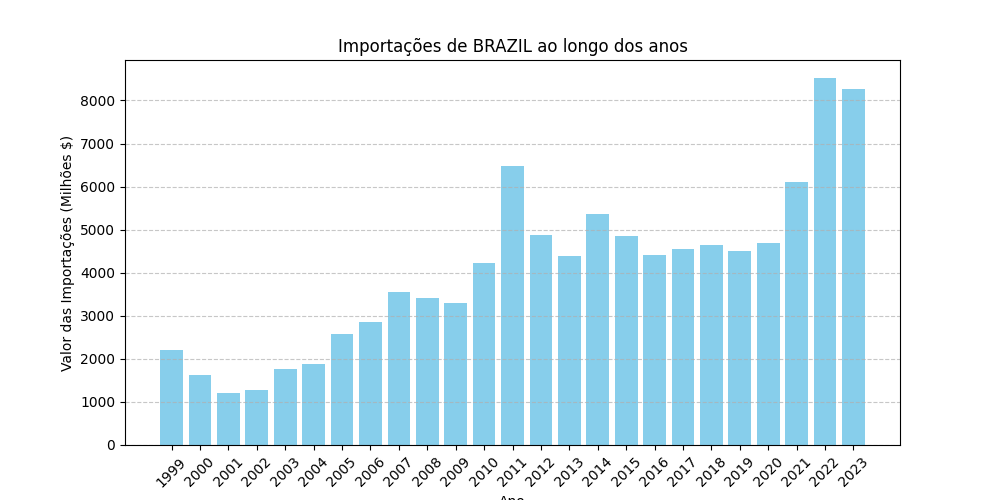
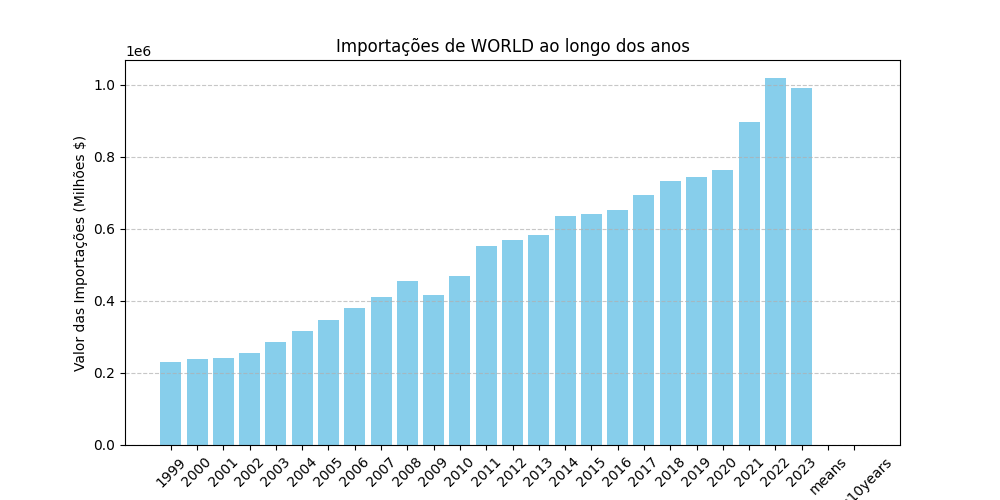
20-03

diff --git a/test2.py b/test2.py
@@ -35,4 +35,16 @@ def plot_imports_by_year(pais):
     plt.show()
 
 # Exemplo de uso da função
-plot_imports_by_year("BRAZIL")
+#plot_imports_by_year("WORLD")
+
+def CPY(com):
+    aux = df[(df["Commodity"] == com) &(df["Country"] == "BRAZIL") ] 
+    print(aux)
+#(df["Unit of Measure"] == "percent")
+
+def Wine(pais):
+    aux = df[(df["Commodity"] == "Wine") & (df["Country"] == pais)]
+    print(aux)
+
+#CPY("Meats")
+Wine("ITALY")
